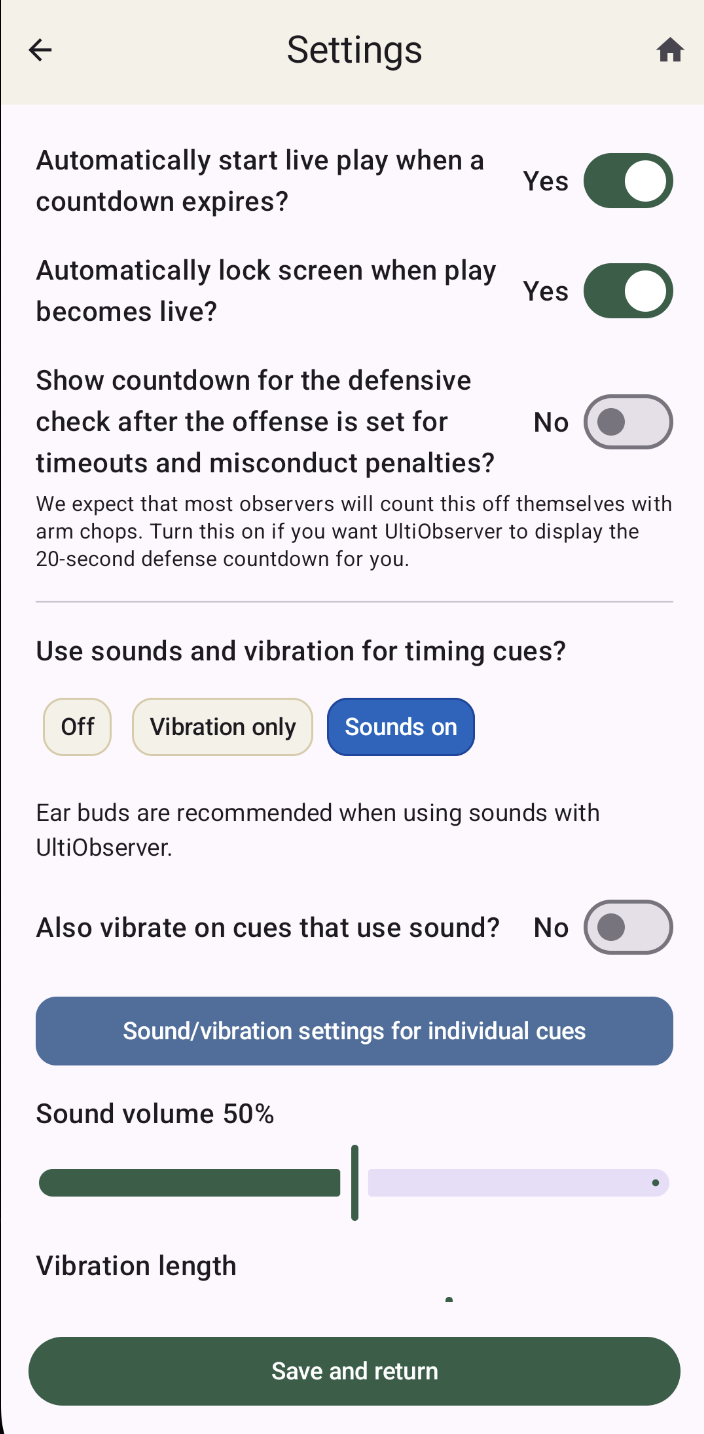
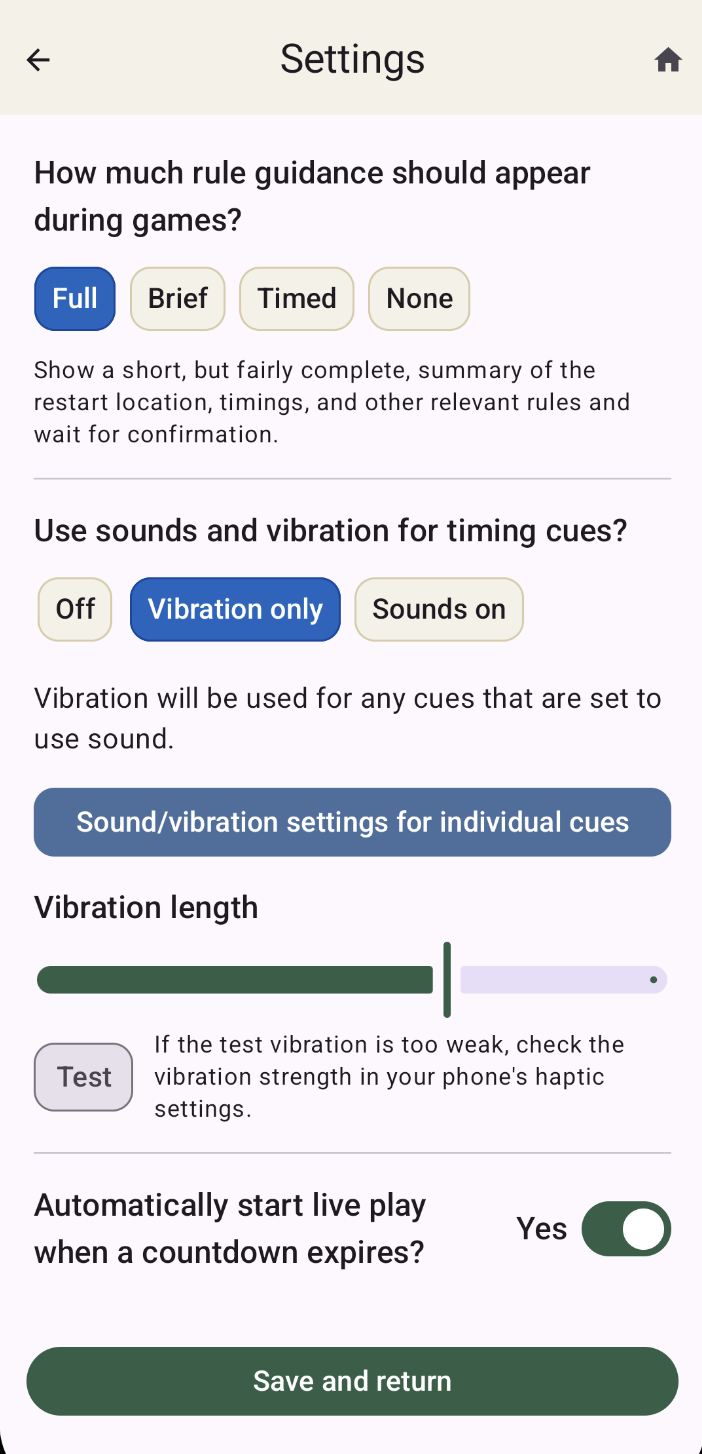
Doc edits related to the recent changes

diff --git a/docs/setup-game.rst b/docs/setup-game.rst
@@ -129,7 +129,7 @@ First point gender ratio
     ABBA for the gender ratio.
 
 End for gen zone in first half
-    The "gen zone" is the common term for the endzone that decides the gender ratio when playing
+    The "gen zone" is the common term for the end zone that decides the gender ratio when playing
     under that rule. This option is only available if the division is set to Mixed and the rules
     are set to use Gen zone for the gender ratio. Note that official rules say to switch the gen
     zone in the second half, but you can switch that in the Rules section.
@@ -163,12 +163,64 @@ Soft cap
 Hard cap
     Is there a hard cap? And if so, how long after the start time?
 
-Halftime
-    How long is halftime?
-
 Timeouts
     How many timeouts does each team have each half, including a possible floater
     (an extra timeout that can be taken in either half)?
+
+Mixed gender ratio
+    What rule should be used to determine the gender ratio each point? This option is only
+    available if the division is set to **Mixed**. Options include:
+
+    * **ABBA**: Alternate two at a time starting after the first point. So if the ratio for the
+      first point is M (i.e. 4M/3W), then the pattern will be M W W M M W W M M W W ...
+
+    * **Gen zone**: The team in a particular end zone decides the ratio each point. The official
+      rules say to switch the end zone at halftime (which is definitely a good idea), but if
+      your game is not respecting that rule, you can choose to disable that.
+
+    * **Offense decides**: The team receiving the pull decides the ratio each point. This used to
+      be the standard way to choose, but is rarely used these days. Still, it's an option.
+
+    * **4M/3W**: Just use 4 man-matching, 3 woman-matching for the whole game.
+
+    * **4W/3M**: Just use 4 woman-matching, 3 man-matching for the whole game.
+
+    * **N/A**: Don't have the app handle anything related to the gender ratio.
+
+Heat level
+    When heat precautions are in effect, this option lets you set the Heat Precaution Level
+    in effect for the game. The app follows USAU's `Heat and Air Quality Guidelines`_
+    for the appropriate adjustments to the rules for different levels. If your tournament is
+    using water breaks, but has a different cadence for them, you can use Level 0 to handle the
+    water breaks manually.
+
+    * **None**: No adjustments to the standard rules. No water drop icon on the active game screen.
+
+    * **Level 0**: Adds a water drop icon to the active game screen, which can be used to
+      start a water break between points. There will be no prompts for any automatic water breaks.
+      The default break time for this is 3 minutes, but you can change it.
+
+    * **Level 1**: One 3-minute water break per half. The usual cadence in a game to 15 is
+      to take these breaks when a team reaches 4 points in the first half or 12 in the second
+      half. If half is taken early (due to the half cap), then the break is taken 4 points after
+      the halftime higher score. Also, if soft cap occurs before the scheduled water break,
+      then that triggers an immediate water break.
+      For games to other totals than 15, the water breaks are at the first point after
+      "first quarter" and "third quarter".
+
+    * **Level 2**: One 4-minute water break per half with the same cadence as **Level 1**.
+      In addition, this level adds 60 seconds to the time between points and shortens the
+      game. Hard cap is set to 90 minutes after the start time, and the soft cap is 20 minutes
+      prior to that. (Already shorter caps are not affected.) These adjustments are shown on
+      the other rule pages, and they apply automatically.
+
+    All levels 0-2 allow you to change the length of the water break if your tournament is using
+    a different break time than the official guidance. Also, they all show a water drop icon
+    next to the countdown, so you can take an off-schedule water break if needed.
+
+    During the game, you can change the heat level from the **More actions** menu when
+    necessary. Also, all water breaks open a confirmation dialog, which lets you decline a
+    scheduled water break if you need to reject it for some reason.
 
 Time between points
     How many seconds the offense has to signal readiness between points. The defense has
@@ -181,38 +233,10 @@ Timeout duration
     after this time to check the disc in. When called between points, this is how much
     time is added to the between-points countdown.
 
-Water breaks
-    Whether to allow water breaks between points. When heat precautions are in effect, this
-    option allows you to add a set amount of time (default 3 minutes) to the time between
-    points. The usual cadence in a game to 15 is to take these breaks when a team reaches
-    4 points in the first half or 12 in the second half (or at soft cap if that happens
-    earlier than this). For games to other totals than 15, the water breaks are at the first
-    point after "first quarter" and "third quarter". If your tournament has a different cadence,
-    you can choose Manual instead of Automatic for this, which lets you control when the
-    water breaks happen. There will be a small water drop icon next to the countdown timer;
-    clicking this activates the water break. Even when using the automatic water break times,
-    you are still able to override the automatic cadence by rejecting the water break when
-    offered and/or clicking the water drop yourself at other points.
-
-Mixed gender ratio
-    What rule should be used to determine the gender ratio each point? This option is only
-    available if the division is set to **Mixed**. Options include:
-
-    * **ABBA:** Alternate two at a time starting after the first point. So if the ratio for the
-      first point is M (i.e. 4M/3W), then the pattern will be M W W M M W W M M W W ...
-
-    * **Gen zone:** The team in a particular end zone decides the ratio each point. The official
-      rules say to switch the end zone at halftime (which is definitely a good idea), but if
-      your game is not respecting that rule, you can choose to disable that.
-
-    * **Offense decides:** The team receiving the pull decides the ratio each point. This used to
-      be the standard way to choose, but is rarely used these days. Still, it's an option.
-
-    * **4M/3W:** Just use 4 man-matching, 3 woman-matching for the whole game.
-
-    * **4W/3M:** Just use 4 woman-matching, 3 man-matching for the whole game.
-
-    * **N/A:** Don't have the app handle anything related to the gender ratio.
+Halftime
+    How long is halftime?
 
 At the bottom, there is a button to **Reset to USAU defaults**, which sets all rules back to
 the normal USAU standard rules.
+
+.. _Heat and Air Quality Guidelines: https://usaultimate.org/wp-content/uploads/2023/06/Heat-and-Air-Quality-Guidelines.pdf

diff --git a/docs/settings.rst b/docs/settings.rst
@@ -1,0 +1,107 @@
+Settings
+========
+
+Settings is where you can change how the app works in various ways.
+
+Rule Guidance
+^^^^^^^^^^^^^
+
+.. figure:: screen-shots/SettingsTop.png
+   :class: phone-screenshot
+   :target: _images/SettingsTop.png
+   :alt: Settings screen showing rule guidance and sound and vibration settings.
+
+
+How much rule guidance should appear during games?
+    For many user actions during a game, the default app behavior is to display a confirmation
+    or informational message. It also gives a summary of the relevant rules (such as restart
+    location, whether there is a required check, etc.) and the resulting game state (e.g.
+    timeouts remaining or a team's total card count). For in-point misconduct penalties,
+    it also asks whether the misconduct is on the offense or defense, so it can inform you about
+    the correct restart. This behavior is called **Full** here.
+
+    For experienced observers, this information is probably not necessary, so we provide
+    three less verbose guidance modes:
+
+    * **Brief** just gives a very short reminder of the relevant rule (e.g. '[Team] starts at
+      midfield' for a second offsides), and doesn't have the offense/defense question for
+      misconduct penalties.
+    * **Timed** has the same message as **Brief**, but automatically closes the message after
+      5 seconds. This still lets you cancel an action if you need to, but if you ignore it, it
+      treats that as though you pressed OK, confirming the action. Other dialogs that require
+      input to collect information or correct errors do not time out.
+    * **None** doesn't show any confirmation message for most actions. A few required notices
+      still appear briefly, including invalid timeout attempts, player suspensions, offsides
+      in mixed games (so you can change it to majority pull violation if necessary), and cap and
+      water-break prompts. These automatically close after 5 seconds, performing the normal OK
+      action for those that requested a confirmation. But most actions just apply directly
+      without any message.
+
+Sounds and Vibration
+^^^^^^^^^^^^^^^^^^^^
+
+Use sounds and vibration for timing cues?
+    There are three options here:
+
+    * **Off** completely disables all sound and haptic cues related to any countdowns.
+    * **Vibration only** limits the cues to only use vibration, rather than sounds.
+      Any individual cues that are set to use sound will use vibration instead.
+    * **Sounds on** enables sounds for all individual cues that are set to use them.
+      Probably if you have sounds turned on, you should have an earbud in one ear to hear
+      them better and to not broadcast the sound to nearby players.
+
+Also vibrate on cues that use sound?
+    If you want your phone to vibrate in addition to using sound whenever a cue has a sound
+    setting, set this to **Yes**.
+
+Sound/vibration settings for individual cues
+    This opens a sub-page where you can set a sound or vibration to use for each specific
+    kind of cue that we have in the game. The defaults are what I think would be a reasonable
+    set to use, but you can adjust each cue's sounds or vibration setting to your preference.
+    The **x2** and **x3** buttons for each set a repetition for the sound or vibration.
+    So you can have a cue use 1, 2 or 3 beeps for instance.
+
+Sound volume
+    This sets the sound volume as a fraction of your phone's overall media volume.
+
+Vibration length
+    This changes how long the vibration action lasts. There is a **Test** button so you can
+    see what the currently set length will feel like.
+
+Countdown and Lock Behavior
+^^^^^^^^^^^^^^^^^^^^^^^^^^^
+
+Automatically start live play when a countdown expires?
+    The default behavior when a pull or timeout countdown expires is to automatically advance
+    to live play. If you prefer to do this manually (using either the **Start point** or
+    **Continue point** button) then switch this to **No**.
+
+Automatically lock screen when play becomes live?
+    The default behavior is to automatically lock the screen when switching to live action,
+    either after a pull or at the end of an in-point timeout. That way, while you are moving
+    with play, you won’t accidentally press buttons in the app. Unlocking is a simple drag
+    action, which is pretty quick, but if you prefer not to have it lock automatically, then
+    switch this to **No**. Note that there is always a lock icon on the live game screen so you
+    can lock the screen manually whenever you need.
+
+Show defense-check countdown after the offense is set?
+    We expect that most observers will not need an explicit countdown for the defensive check
+    after the offense is ready on timeouts or misconduct penalties. This is commonly handled
+    using visible arm chops, rather than a stopwatch. However, if you would prefer to have the
+    defense countdown handled by the app, set this option to **Yes**.
+
+Gender Ratio Indicator
+^^^^^^^^^^^^^^^^^^^^^^
+
+Show ABBA gender ratio as M1/M2/W1/W2?
+    The default for mixed games using ABBA is to display the current point's gender ratio using
+    these sequence shorthand names, which indicate whether this is the first or second point in
+    the sequence with either the 4M/3W ratio (``M1`` and ``M2``, respectively) or the
+    4W/3M ratio (``W1`` and ``W2``).  Set this to **No** if you prefer the
+    badge to show the full point ratio as either ``4W/3M`` or ``4M/3W``.
+
+Set 4M/3W and 4W/3M indicator colors
+    When there is a specific gender ratio for a point, the app will show a small badge indicating
+    the prescribed gender ratio. These default to blue and red for 4M/3W and 4W/3M, respectively.
+    This setting lets you change these to different colors if you prefer, or set them both to
+    black or white if you don't want the color coding.

diff --git a/docs/index.rst b/docs/index.rst
@@ -6,25 +6,37 @@ UltiObserver
    :target: _images/HomePage.png
    :alt: UltiObserver home screen with start game, archive, profile, settings, and about buttons
 
-UltiObserver is an app for Ultimate observers.
-It helps an observer track and manage the various events during the game that require
-the observer's attention, including goals, timeouts, pull violations, time caps,
-and misconduct -- everyting that would normally be recorded on a paper score sheet.
+UltiObserver is a game management app for Ultimate observers, which is intended to replace
+both the paper score sheet and the stopwatch observers typically use.
+
+Before the game, you can enter all the relevant information about the teams, the tournament,
+rules, field orientation, etc. These can be set up in advance and saved as drafts, so everything
+is ready when you arrive at the field.
+
+During the game, it helps you track and manage the various events during the game that require
+observer attention, including goals, timeouts, pull violations, time caps, and misconduct --
+everything that would normally be recorded on a paper score sheet.
+
 It also provides timing cues for pulls, timeouts, misconduct penalties, and halftime,
 showing an active countdown with prompts for each time the observer should announce something.
-The app is intended to replace both the paper score sheet and the stopwatch observers
-typically use.
+You can choose to have the app emit sounds or vibrations for some or all timing cues
+(you control which ones and how they are indicated).
 
-The recommended way to use the timing cues is to use either sound (with earbuds) or vibration.
+The recommended way to use the timing cues is to use sounds with an earbud in one ear.
+The app is mostly quiet, so it won't interfere with your ability to hear during the game, but
+that will let you hear the cue sounds without players hearing them. Vibrations are also
+effective if your phone is stored in a place where you can notice them. If you keep it in a
+loose pocket, it may be difficult to notice the vibrations when moving around.
+
 After recording a goal or timeout, the countdown starts automatically, and you can put your
 phone away. Then just listen for the sound or notice the vibration that cues you to announce
-the next timing update. For instance, for a pull, when you are at the endzone with the
-receiving team, the default sounds are two clicks at 20 seconds left and one click at 10 seconds,
-prompting you to make the corresponding announcements. The specific sounds or vibration cues
+the next timing update. For instance, for a pull, when you are at the end zone with the
+receiving team, the default sounds are two ticks at 20 seconds left and one tick at 10 seconds,
+prompting you to make the corresponding announcements. The specific sound and vibration cues
 are all settable, so you can enable whichever ones you find most useful.
 
 After the game, the app will show a game summary page with the final score along with other
-details, including all cards that were issued. This page includes a way to share the summary,
+details, including all cards that were issued. This page includes a button to share the summary,
 so you can quickly send it to the head observer and/or tournament director for the tournament.
 
 What UltiObserver Does
@@ -64,7 +76,8 @@ Contents
 
    install
    quick-start
-   profile-settings
+   profile
+   settings
    setup-game
    game-screen
    ingame-events

diff --git a/docs/release-notes.rst b/docs/release-notes.rst
@@ -61,11 +61,11 @@ Version 1.0 was the first public testing release of UltiObserver.
 Features included:
 
 - It keeps track of which team is pulling and from which end. The live game screen shows
-  the field orientation as seen from one end of the field. This would normally be the endzone
+  the field orientation as seen from one end of the field. This would normally be the end zone
   where you have primary responsibility as an observer.
 - It keeps track of the time remaining for observing cues you are responsible for. E.g. if the
-  team at your endzone is receiving, it will give cues for 20 and 10 seconds until they need
-  to signal readiness. Similar for the pull time if the team at your endzone is pulling.
+  team at your end zone is receiving, it will give cues for 20 and 10 seconds until they need
+  to signal readiness. Similar for the pull time if the team at your end zone is pulling.
 - For timeouts, it will similarly keep track of the time and tell you when to announce sideline
   clear, 20 to set, etc.
 - You can customize which (if any) timing cues you want to have associated sounds and/or haptic

diff --git a/docs/more-actions.rst b/docs/more-actions.rst
@@ -14,11 +14,18 @@ Update game setup
     setup with the current game information already filled in and lets you adjust whatever
     you need.
 
-Typical reasons include:
+    Typical reasons include:
 
-* changing the display colors for one or both teams;
-* updating coach, field captain, or spirit captain names;
-* changing any rules that you set incorrectly before the game;
+    * changing the display colors for one or both teams;
+    * updating coach, field captain, or spirit captain names;
+    * changing any rules that you set incorrectly before the game;
+
+Set heat level
+    Lets you change the current heat level in effect for the game. This automatically makes
+    the appropriate adjustments to the rules, including water break duration, time between
+    points, and caps.
+
+    Setting the heat level to Level 3 suspends the game immediately.
 
 Field And Pull Controls
 -----------------------

diff --git a/docs/profile.rst b/docs/profile.rst
@@ -1,0 +1,17 @@
+Profile
+=======
+
+.. figure:: screen-shots/Profile.png
+   :class: phone-screenshot
+   :target: _images/Profile.png
+   :alt: Profile screen with observer name and avatar selection
+
+The main thing to set on the profile screen is your name. When it is set, any new-game setup
+pre-populates the first observer row with that name. The second observer row is
+left blank for the partner assigned to work with you. You can of course change the first
+name as well, but we expect that most of the time you will be one of the two observers
+doing the game.
+
+This is also where you can change the avatar picture that displays on the home screen.
+The default is to choose randomly from among all the available images, but you may
+select one in particular to always show if you want.
